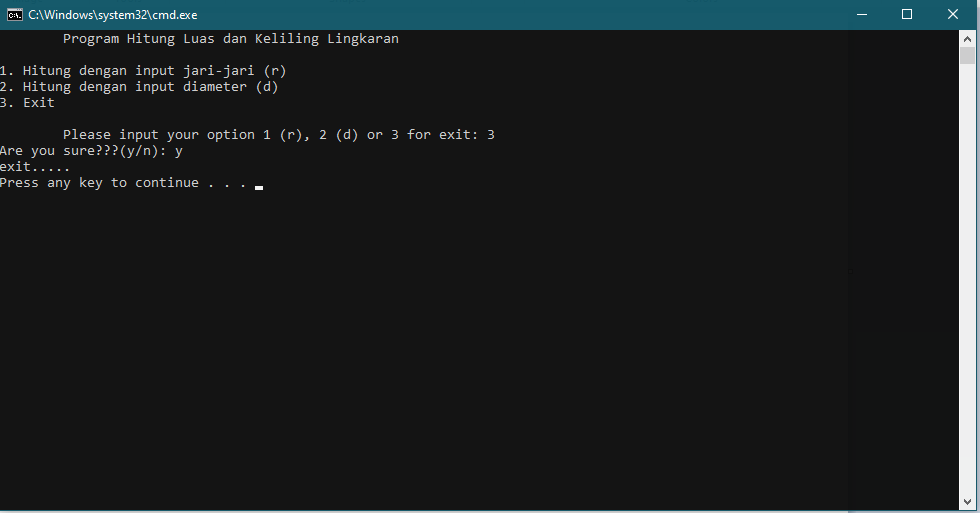
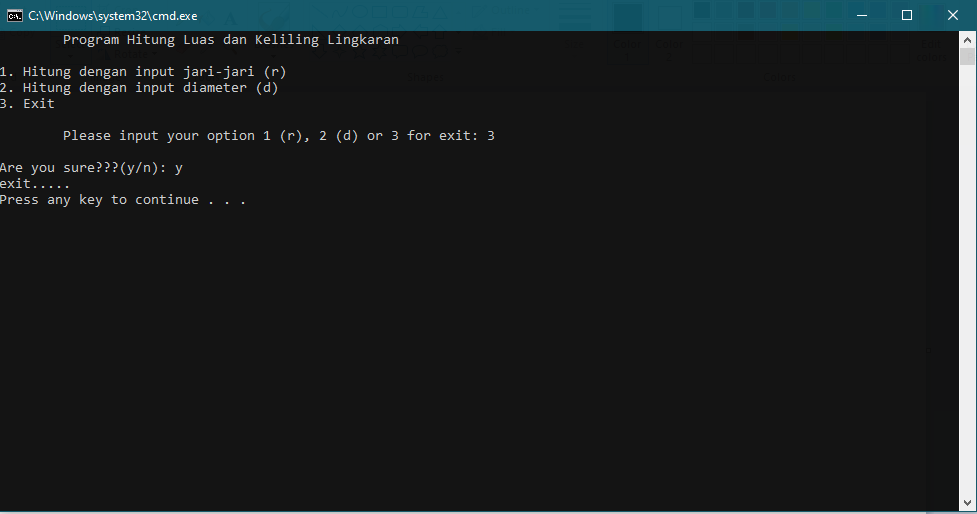
perubahan

diff --git a/README.md b/README.md
@@ -9,10 +9,13 @@
 </p>
 
 1. <b>TOOLS<b><p>
-- <b>Visual Studio Code<b><P>
+<p>
+- <b>Visual Studio Code untuk edit readme<b><P>
 - <b>Python 3.10<b><p>
 - <b>Windows 10 with 1 TB HDD 8 GB RAM<b><p>
-- <b>Microsoft Visual Studio<b><p>
+- <b>Microsoft Visual Studio untuk run program<b><p>
+- <b>Microsoft Excel untuk menggambar flowchart<b><p>
+- <b>Paint untuk edit screenshoot<b><p>
 
  Rumus Luas Lingkaran phi*r*r atau phi*(d/2)*(d/2)<p>
  Rumus Keliling Lingkaran 2*phi*r atau 2*phi*(d/2)<p>
@@ -39,9 +42,12 @@ while True:
 2. Hitung dengan input diameter (d)
 3. Exit\n""")
     pilih = int(input("\tPlease input your option 1 (r), 2 (d) or 3 for exit: "))
+    print()
     if pilih==1:
         print("Luas dan Keliling Lingkaran dengan (r)")
-        r=float(input("\tmasukkan jari jari lingkaran:"))
+        print()
+        r=float(input("input (r) lingkaran=> "))
+        print()
         phi=3.14
         L=phi*(r*r)
         K=2*phi*r
@@ -56,7 +62,9 @@ while True:
 
     if pilih==2 :
         print("Luas dan Keliling Lingkaran dengan (d)")
-        d=float(input("\tmasukkan diameter lingkaran:"))
+        print()
+        d=float(input("input (d) lingkaran=> "))
+        print()
         phi=3.14
         dl=phi*(d/2*d/2)
         dk=2*phi*(d/2)
